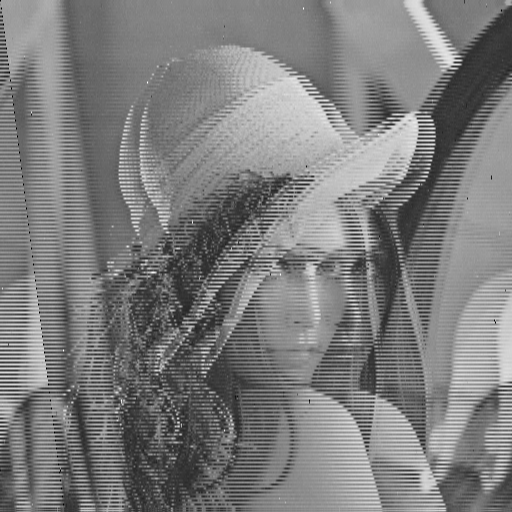
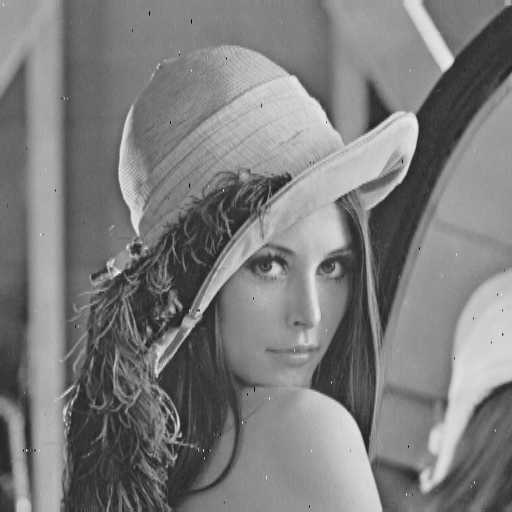
add_4nodes_MDC

diff --git a/4 Nodes/Channel_Coding/MDC/top_block.py b/4 Nodes/Channel_Coding/MDC/top_block.py
@@ -1,0 +1,307 @@
+#!/usr/bin/env python2
+# -*- coding: utf-8 -*-
+##################################################
+# GNU Radio Python Flow Graph
+# Title: Top Block
+# Generated: Mon Dec 28 08:43:01 2020
+##################################################
+
+if __name__ == '__main__':
+    import ctypes
+    import sys
+    if sys.platform.startswith('linux'):
+        try:
+            x11 = ctypes.cdll.LoadLibrary('libX11.so')
+            x11.XInitThreads()
+        except:
+            print "Warning: failed to XInitThreads()"
+
+from PyQt4 import Qt
+from gnuradio import blocks
+from gnuradio import eng_notation
+from gnuradio import filter
+from gnuradio import gr
+from gnuradio import qtgui
+from gnuradio.eng_option import eng_option
+from gnuradio.filter import firdes
+from math import *
+from optparse import OptionParser
+from s4a import *
+import DNC
+import DNC2
+import display
+import osmosdr
+import sip
+import sys
+import time
+from gnuradio import qtgui
+
+
+class top_block(gr.top_block, Qt.QWidget):
+
+    def __init__(self):
+        gr.top_block.__init__(self, "Top Block")
+        Qt.QWidget.__init__(self)
+        self.setWindowTitle("Top Block")
+        qtgui.util.check_set_qss()
+        try:
+            self.setWindowIcon(Qt.QIcon.fromTheme('gnuradio-grc'))
+        except:
+            pass
+        self.top_scroll_layout = Qt.QVBoxLayout()
+        self.setLayout(self.top_scroll_layout)
+        self.top_scroll = Qt.QScrollArea()
+        self.top_scroll.setFrameStyle(Qt.QFrame.NoFrame)
+        self.top_scroll_layout.addWidget(self.top_scroll)
+        self.top_scroll.setWidgetResizable(True)
+        self.top_widget = Qt.QWidget()
+        self.top_scroll.setWidget(self.top_widget)
+        self.top_layout = Qt.QVBoxLayout(self.top_widget)
+        self.top_grid_layout = Qt.QGridLayout()
+        self.top_layout.addLayout(self.top_grid_layout)
+
+        self.settings = Qt.QSettings("GNU Radio", "top_block")
+        self.restoreGeometry(self.settings.value("geometry").toByteArray())
+
+        ##################################################
+        # Variables
+        ##################################################
+        self.silence_block_rep = silence_block_rep = 1
+        self.samp_rate = samp_rate = 1e6
+        self.preamble_block_rep = preamble_block_rep = 1
+        self.pilot_block_rep = pilot_block_rep = 1
+        self.occupied_tones = occupied_tones = 48
+        self.fft_length = fft_length = 128
+        self.data_size = data_size = 2048/2
+        self.data_block_sz = data_block_sz = 7
+        self.data_block_rep = data_block_rep = 1
+        self.cp_length = cp_length = 16
+        self.buffer_sz = buffer_sz = 127
+
+        ##################################################
+        # Blocks
+        ##################################################
+        self.show_image_0_0_1 = display.show_image(
+        	512,  # Picture width
+        	512,  # Picture height
+        )
+        self._show_image_0_0_1_win = sip.wrapinstance(self.show_image_0_0_1.pyqwidget(), Qt.QWidget)
+        self.top_layout.addWidget(self._show_image_0_0_1_win)
+        self.show_image_0_0 = display.show_image(
+        	512,  # Picture width
+        	512,  # Picture height
+        )
+        self._show_image_0_0_win = sip.wrapinstance(self.show_image_0_0.pyqwidget(), Qt.QWidget)
+        self.top_layout.addWidget(self._show_image_0_0_win)
+        self.s4a_parallel_to_serial_1_0 = parallel_to_serial((data_block_sz*occupied_tones))
+
+        self.s4a_parallel_to_serial_1 = parallel_to_serial(data_block_sz*occupied_tones)
+
+        self.s4a_ofdm_modulator_0 = ofdm_modulator(fft_length, occupied_tones, cp_length,
+                               preamble_block_rep, pilot_block_rep,
+                               data_block_sz, data_block_rep,
+                               silence_block_rep, 1/9.6571,
+                               1/13.9017, 1/48.0)
+
+        self.s4a_ofdm_demodulator_0_0 = ofdm_demodulator(fft_length, occupied_tones,
+                                cp_length, preamble_block_rep,
+                                pilot_block_rep, data_block_sz,
+                                data_block_rep, silence_block_rep,
+                                1000, 0, 0)
+
+        self.s4a_ofdm_demodulator_0 = ofdm_demodulator(fft_length, occupied_tones,
+                                cp_length, preamble_block_rep,
+                                pilot_block_rep, data_block_sz,
+                                data_block_rep, silence_block_rep,
+                                1000, 0, 0)
+
+        self.s4a_byte_to_bit_0 = byte_to_bit()
+
+        self.s4a_bpsk_mapper_0 = bpsk_mapper()
+
+        self.s4a_bpsk_demapper_0_0 = bpsk_demapper()
+
+        self.s4a_bpsk_demapper_0 = bpsk_demapper()
+
+        self.osmosdr_source_0_0_0 = osmosdr.source( args="numchan=" + str(1) + " " + 'bladerf=4fcb' )
+        self.osmosdr_source_0_0_0.set_sample_rate(samp_rate)
+        self.osmosdr_source_0_0_0.set_center_freq(2.425e9, 0)
+        self.osmosdr_source_0_0_0.set_freq_corr(0, 0)
+        self.osmosdr_source_0_0_0.set_dc_offset_mode(1, 0)
+        self.osmosdr_source_0_0_0.set_iq_balance_mode(1, 0)
+        self.osmosdr_source_0_0_0.set_gain_mode(False, 0)
+        self.osmosdr_source_0_0_0.set_gain(30, 0)
+        self.osmosdr_source_0_0_0.set_if_gain(20, 0)
+        self.osmosdr_source_0_0_0.set_bb_gain(20, 0)
+        self.osmosdr_source_0_0_0.set_antenna('', 0)
+        self.osmosdr_source_0_0_0.set_bandwidth(1.5e6, 0)
+
+        self.osmosdr_source_0_0 = osmosdr.source( args="numchan=" + str(1) + " " + 'bladerf=3144' )
+        self.osmosdr_source_0_0.set_sample_rate(samp_rate)
+        self.osmosdr_source_0_0.set_center_freq(2.405e9, 0)
+        self.osmosdr_source_0_0.set_freq_corr(0, 0)
+        self.osmosdr_source_0_0.set_dc_offset_mode(1, 0)
+        self.osmosdr_source_0_0.set_iq_balance_mode(1, 0)
+        self.osmosdr_source_0_0.set_gain_mode(False, 0)
+        self.osmosdr_source_0_0.set_gain(30, 0)
+        self.osmosdr_source_0_0.set_if_gain(20, 0)
+        self.osmosdr_source_0_0.set_bb_gain(20, 0)
+        self.osmosdr_source_0_0.set_antenna('', 0)
+        self.osmosdr_source_0_0.set_bandwidth(1.5e6, 0)
+
+        self.osmosdr_sink_0 = osmosdr.sink( args="numchan=" + str(1) + " " + 'bladerf=4fcb' )
+        self.osmosdr_sink_0.set_sample_rate(samp_rate)
+        self.osmosdr_sink_0.set_center_freq(2.435e9, 0)
+        self.osmosdr_sink_0.set_freq_corr(0, 0)
+        self.osmosdr_sink_0.set_gain(30, 0)
+        self.osmosdr_sink_0.set_if_gain(20, 0)
+        self.osmosdr_sink_0.set_bb_gain(20, 0)
+        self.osmosdr_sink_0.set_antenna('', 0)
+        self.osmosdr_sink_0.set_bandwidth(1.5e6, 0)
+
+        self.dc_blocker_xx_0_0_0_0 = filter.dc_blocker_cc(256, True)
+        self.dc_blocker_xx_0_0_0 = filter.dc_blocker_cc(256, True)
+        self.blocks_null_sink_0_1_0 = blocks.null_sink(gr.sizeof_gr_complex*48)
+        self.blocks_null_sink_0_1 = blocks.null_sink(gr.sizeof_gr_complex*occupied_tones)
+        self.blocks_null_sink_0_0_1_0 = blocks.null_sink(gr.sizeof_float*1)
+        self.blocks_null_sink_0_0 = blocks.null_sink(gr.sizeof_float*1)
+        self.blocks_multiply_const_vxx_0_0 = blocks.multiply_const_vcc((25e3, ))
+        self.blocks_multiply_const_vxx_0 = blocks.multiply_const_vcc((25e3, ))
+        self.DNC_packet_arrangement_0_0 = DNC.packet_arrangement(2*buffer_sz, data_size, 10, 20, 0)
+        self.DNC_packet_arrangement_0 = DNC.packet_arrangement(2*buffer_sz, data_size, 10, 20, 1)
+        self.DNC_nodeC_controller_0 = DNC.nodeC_controller(buffer_sz, data_size, 6, 10, 20, 30, 40, 1)
+        self.DNC_MDC_decoding_2_0 = DNC.MDC_decoding(512, 512, 2)
+        self.DNC_MDC_decoding_2 = DNC.MDC_decoding(512, 512, 1)
+        self.DNC2_hamming_decoder_1 = DNC2.hamming_decoder(3)
+        self.DNC2_hamming_decoder_0 = DNC2.hamming_decoder(3)
+
+        ##################################################
+        # Connections
+        ##################################################
+        self.connect((self.DNC2_hamming_decoder_0, 0), (self.DNC_MDC_decoding_2, 0))
+        self.connect((self.DNC2_hamming_decoder_0, 0), (self.DNC_MDC_decoding_2_0, 0))
+        self.connect((self.DNC2_hamming_decoder_1, 0), (self.DNC_MDC_decoding_2, 1))
+        self.connect((self.DNC2_hamming_decoder_1, 0), (self.DNC_MDC_decoding_2_0, 1))
+        self.connect((self.DNC_MDC_decoding_2, 0), (self.show_image_0_0, 0))
+        self.connect((self.DNC_MDC_decoding_2_0, 0), (self.show_image_0_0_1, 0))
+        self.connect((self.DNC_nodeC_controller_0, 1), (self.DNC_packet_arrangement_0, 0))
+        self.connect((self.DNC_nodeC_controller_0, 1), (self.DNC_packet_arrangement_0_0, 0))
+        self.connect((self.DNC_nodeC_controller_0, 0), (self.s4a_byte_to_bit_0, 0))
+        self.connect((self.DNC_packet_arrangement_0, 0), (self.DNC2_hamming_decoder_1, 0))
+        self.connect((self.DNC_packet_arrangement_0_0, 0), (self.DNC2_hamming_decoder_0, 0))
+        self.connect((self.blocks_multiply_const_vxx_0, 0), (self.s4a_ofdm_demodulator_0, 0))
+        self.connect((self.blocks_multiply_const_vxx_0_0, 0), (self.s4a_ofdm_demodulator_0_0, 0))
+        self.connect((self.dc_blocker_xx_0_0_0, 0), (self.blocks_multiply_const_vxx_0, 0))
+        self.connect((self.dc_blocker_xx_0_0_0_0, 0), (self.blocks_multiply_const_vxx_0_0, 0))
+        self.connect((self.osmosdr_source_0_0, 0), (self.dc_blocker_xx_0_0_0, 0))
+        self.connect((self.osmosdr_source_0_0_0, 0), (self.dc_blocker_xx_0_0_0_0, 0))
+        self.connect((self.s4a_bpsk_demapper_0, 0), (self.DNC_nodeC_controller_0, 0))
+        self.connect((self.s4a_bpsk_demapper_0_0, 0), (self.DNC_nodeC_controller_0, 1))
+        self.connect((self.s4a_bpsk_mapper_0, 0), (self.s4a_ofdm_modulator_0, 0))
+        self.connect((self.s4a_byte_to_bit_0, 0), (self.s4a_bpsk_mapper_0, 0))
+        self.connect((self.s4a_ofdm_demodulator_0, 2), (self.blocks_null_sink_0_0, 0))
+        self.connect((self.s4a_ofdm_demodulator_0, 1), (self.blocks_null_sink_0_1, 0))
+        self.connect((self.s4a_ofdm_demodulator_0, 0), (self.s4a_parallel_to_serial_1, 0))
+        self.connect((self.s4a_ofdm_demodulator_0_0, 2), (self.blocks_null_sink_0_0_1_0, 0))
+        self.connect((self.s4a_ofdm_demodulator_0_0, 1), (self.blocks_null_sink_0_1_0, 0))
+        self.connect((self.s4a_ofdm_demodulator_0_0, 0), (self.s4a_parallel_to_serial_1_0, 0))
+        self.connect((self.s4a_ofdm_modulator_0, 0), (self.osmosdr_sink_0, 0))
+        self.connect((self.s4a_parallel_to_serial_1, 0), (self.s4a_bpsk_demapper_0, 0))
+        self.connect((self.s4a_parallel_to_serial_1_0, 0), (self.s4a_bpsk_demapper_0_0, 0))
+
+    def closeEvent(self, event):
+        self.settings = Qt.QSettings("GNU Radio", "top_block")
+        self.settings.setValue("geometry", self.saveGeometry())
+        event.accept()
+
+    def get_silence_block_rep(self):
+        return self.silence_block_rep
+
+    def set_silence_block_rep(self, silence_block_rep):
+        self.silence_block_rep = silence_block_rep
+
+    def get_samp_rate(self):
+        return self.samp_rate
+
+    def set_samp_rate(self, samp_rate):
+        self.samp_rate = samp_rate
+        self.osmosdr_source_0_0_0.set_sample_rate(self.samp_rate)
+        self.osmosdr_source_0_0.set_sample_rate(self.samp_rate)
+        self.osmosdr_sink_0.set_sample_rate(self.samp_rate)
+
+    def get_preamble_block_rep(self):
+        return self.preamble_block_rep
+
+    def set_preamble_block_rep(self, preamble_block_rep):
+        self.preamble_block_rep = preamble_block_rep
+
+    def get_pilot_block_rep(self):
+        return self.pilot_block_rep
+
+    def set_pilot_block_rep(self, pilot_block_rep):
+        self.pilot_block_rep = pilot_block_rep
+
+    def get_occupied_tones(self):
+        return self.occupied_tones
+
+    def set_occupied_tones(self, occupied_tones):
+        self.occupied_tones = occupied_tones
+
+    def get_fft_length(self):
+        return self.fft_length
+
+    def set_fft_length(self, fft_length):
+        self.fft_length = fft_length
+
+    def get_data_size(self):
+        return self.data_size
+
+    def set_data_size(self, data_size):
+        self.data_size = data_size
+
+    def get_data_block_sz(self):
+        return self.data_block_sz
+
+    def set_data_block_sz(self, data_block_sz):
+        self.data_block_sz = data_block_sz
+
+    def get_data_block_rep(self):
+        return self.data_block_rep
+
+    def set_data_block_rep(self, data_block_rep):
+        self.data_block_rep = data_block_rep
+
+    def get_cp_length(self):
+        return self.cp_length
+
+    def set_cp_length(self, cp_length):
+        self.cp_length = cp_length
+
+    def get_buffer_sz(self):
+        return self.buffer_sz
+
+    def set_buffer_sz(self, buffer_sz):
+        self.buffer_sz = buffer_sz
+
+
+def main(top_block_cls=top_block, options=None):
+
+    from distutils.version import StrictVersion
+    if StrictVersion(Qt.qVersion()) >= StrictVersion("4.5.0"):
+        style = gr.prefs().get_string('qtgui', 'style', 'raster')
+        Qt.QApplication.setGraphicsSystem(style)
+    qapp = Qt.QApplication(sys.argv)
+
+    tb = top_block_cls()
+    tb.start()
+    tb.show()
+
+    def quitting():
+        tb.stop()
+        tb.wait()
+    qapp.connect(qapp, Qt.SIGNAL("aboutToQuit()"), quitting)
+    qapp.exec_()
+
+
+if __name__ == '__main__':
+    main()
